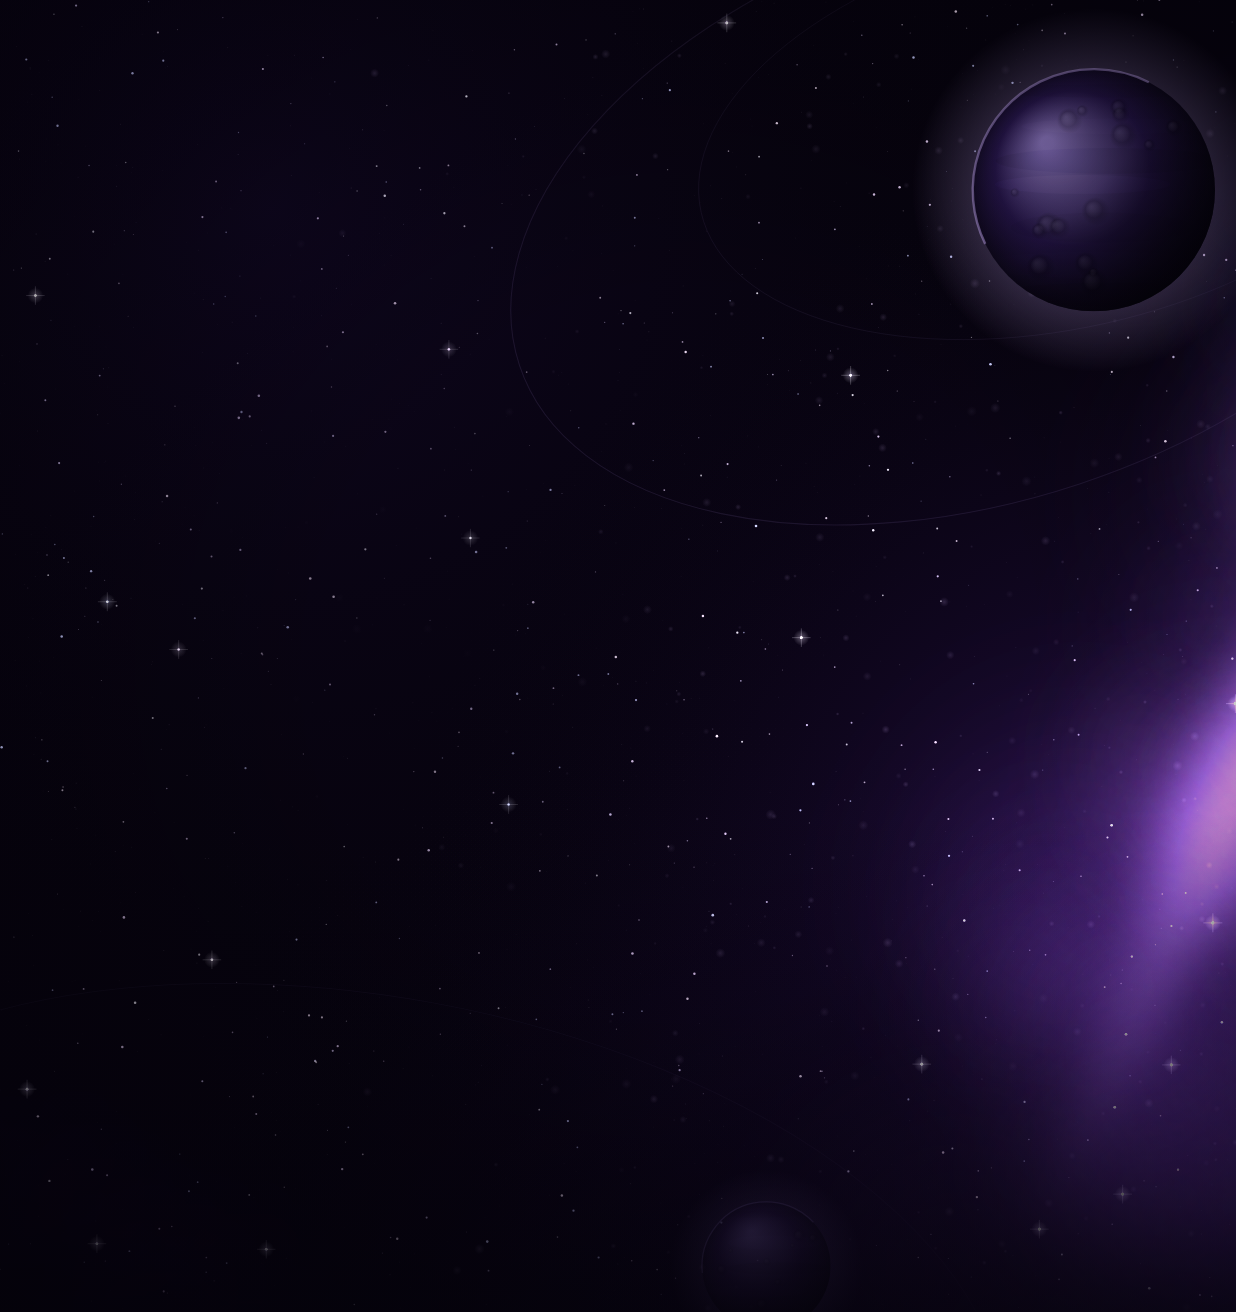
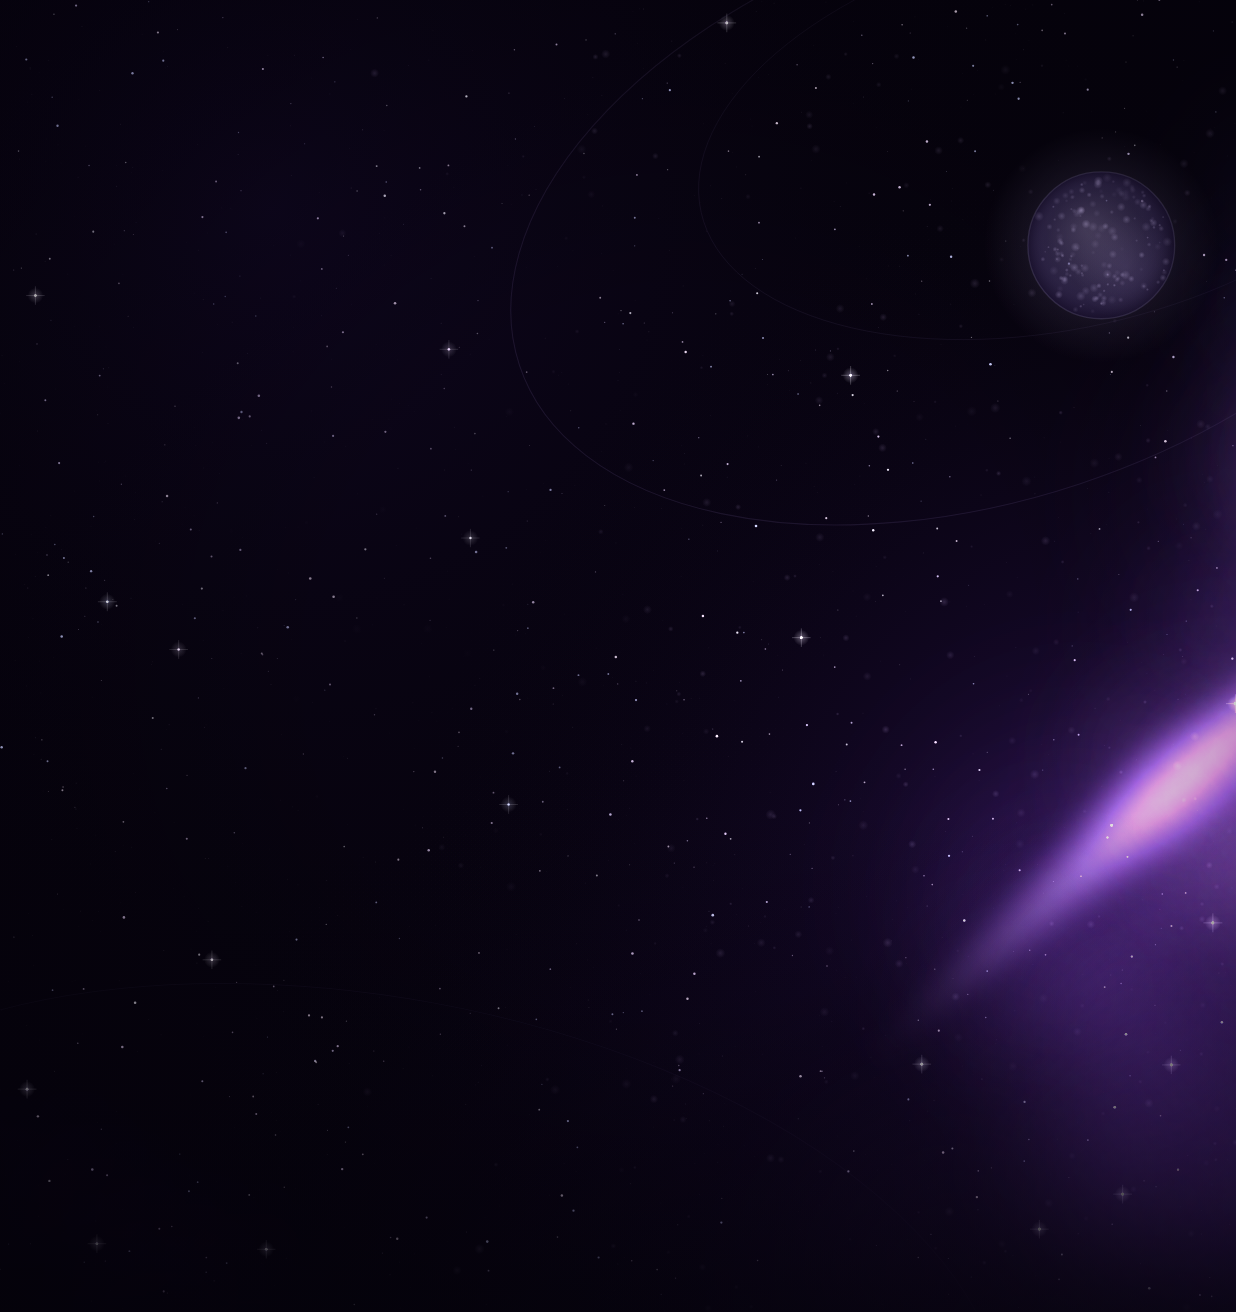
Use the mockup's own Zoey, and measure the planet off the artwork
The character in the app was never the character in the mockup. `zoey-dashboard.png` is cut
from the splash illustration -- thicker twisted hair roll, higher bun, heavier brows, warmer
skin, no Z on the suit. The approved artwork is a different render of the same character:
smooth rolled front sweep, lower bun, thin arched brows, cooler light. Two different
paintings cannot be reconciled by scaling one of them, which is what the last several passes
were doing while the landmarks kept reporting a match.

`zoey-hero-mock.png` is lifted from the approved mockup with the same alpha-only cutout used
for the splash: Vision supplies the subject matte, the cyan hoops are recovered by colour
because Vision discards them, and no RGB byte is repainted. She is upscaled 2x from the only
copy available (853x1844), so she is softer than a native asset would be -- that is the cost
of there being no source layer, and it is visible on close inspection.

Measured against the artwork rather than tuned: hoop separation -0.3pt, hoop left -1.9pt,
hoop top 0.0pt, hoop span -0.9pt.

The planet was wrong in every dimension. The reference is a soft LILAC disc with the star
field speckling through it, a whisper of a limb and no terminator at all, centred 0.891
across the card and 0.187 down it at a radius of 0.0594 of the card width. This drew a dark
rim-lit rock at 0.145 with radius 0.098 -- 65% too large, too high, and far too dark. The
[…]

Changed region(s): [[0.7379, 0.0312, 1.0, 0.25], [0.7686, 0.5312, 1.0, 0.7812], [0.5841, 0.9375, 0.6149, 0.9688]]

diff --git a/tools/cosmos/cosmos.html b/tools/cosmos/cosmos.html
@@ -140,18 +140,18 @@ nebulaCloud(W * 0.08, H * 0.98, W * 0.24, 'rgba(88, 46, 166, ALPHA)', 0.018, 16,
 (function brightArm() {
   ctx.save();
   ctx.globalCompositeOperation = 'lighter';
-  ctx.filter = 'blur(16px)';
-  const cx = W * 1.00, cy = H * 0.60, ang = -1.16;
+  ctx.filter = 'blur(11px)';
+  const cx = W * 0.95, cy = H * 0.60, ang = -0.73;
   for (let i = 0; i < 26; i += 1) {
     const t = (i / 25 - 0.5) * 2;
-    const d = t * W * 0.40;
+    const d = t * W * 0.34;
     const x = cx + Math.cos(ang) * d;
     const y = cy + Math.sin(ang) * d;
-    const r = (1 - Math.abs(t) * 0.72) * W * 0.075;
-    const a = (1 - Math.abs(t)) * 0.30;
+    const r = (1 - Math.abs(t) * 0.80) * W * 0.052;
+    const a = (1 - Math.abs(t)) * 0.62;
     if (r <= 0 || a <= 0) continue;
     const g = ctx.createRadialGradient(x, y, 0, x, y, r);
-    g.addColorStop(0, `rgba(238, 214, 255, ${a.toFixed(3)})`);
+    g.addColorStop(0, `rgba(248, 238, 255, ${a.toFixed(3)})`);
     g.addColorStop(0.5, `rgba(196, 132, 250, ${(a * 0.45).toFixed(3)})`);
     g.addColorStop(1, 'rgba(150, 90, 230, 0)');
     ctx.fillStyle = g;
@@ -253,82 +253,73 @@ arc(W * 0.30, H * 1.02, W * 0.52, H * 0.26, 0.18, 0.05, 1.0);
  * radial fill and two darker circles for craters, which is why it read as a translucent disc.
  */
 function planet(cx, cy, r, opts) {
-  const { base, lit, lightAngle, atmosphere, bands, craters, alpha } = opts;
+  /*
+   * MEASURED OFF THE MOCKUP, NOT INVENTED.
+   *
+   * The reference planet is not a hard-lit rock with a terminator -- that is what the previous
+   * version drew and it read as a dark disc. It is a soft LILAC body, slightly luminous, with the
+   * star field speckling through it, a very gentle limb and no hard shadow line at all. Its centre
+   * sits at 0.891 across the card and 0.187 down it, with a radius of 0.0594 of the card width;
+   * the old one was at 0.145 with radius 0.098 -- 65% too large and too high.
+   */
+  const { core, edge, atmosphere, speckles, alpha } = opts;
   ctx.save();
   ctx.globalAlpha = alpha;
 
-  /* atmosphere halo */
-  const halo = ctx.createRadialGradient(cx, cy, r * 0.9, cx, cy, r * 1.5);
-  halo.addColorStop(0, atmosphere.replace('ALPHA', '0.28'));
+  /* outer atmosphere, very soft */
+  const halo = ctx.createRadialGradient(cx, cy, r * 0.82, cx, cy, r * 1.6);
+  halo.addColorStop(0, atmosphere.replace('ALPHA', '0.12'));
   halo.addColorStop(1, atmosphere.replace('ALPHA', '0'));
   ctx.fillStyle = halo;
-  ctx.beginPath(); ctx.arc(cx, cy, r * 1.5, 0, Math.PI * 2); ctx.fill();
+  ctx.beginPath(); ctx.arc(cx, cy, r * 1.6, 0, Math.PI * 2); ctx.fill();
 
-  /* body, lit from lightAngle */
-  const lx = cx + Math.cos(lightAngle) * r * 0.55;
-  const ly = cy + Math.sin(lightAngle) * r * 0.55;
-  const body = ctx.createRadialGradient(lx, ly, r * 0.05, cx, cy, r * 1.12);
-  body.addColorStop(0, lit);
-  body.addColorStop(0.55, base);
-  body.addColorStop(1, '#05030B');
   ctx.save();
   ctx.beginPath(); ctx.arc(cx, cy, r, 0, Math.PI * 2); ctx.clip();
+
+  /* body: brightest just off centre, falling gently to the limb */
+  const body = ctx.createRadialGradient(cx - r * 0.18, cy - r * 0.22, r * 0.05, cx, cy, r * 1.05);
+  body.addColorStop(0, core);
+  body.addColorStop(0.62, edge);
+  body.addColorStop(1, 'rgba(24,14,46,0.92)');
   ctx.fillStyle = body;
   ctx.fillRect(cx - r, cy - r, r * 2, r * 2);
 
-  /* surface: banding plus craters, all clipped inside the disc */
-  ctx.globalCompositeOperation = 'overlay';
-  for (let i = 0; i < bands; i += 1) {
-    const by = cy - r + (r * 2 * (i + 0.5)) / bands + between(-r * 0.05, r * 0.05);
-    ctx.fillStyle = `rgba(${i % 2 ? '255,255,255' : '0,0,0'},${between(0.03, 0.10).toFixed(3)})`;
-    ctx.beginPath();
-    ctx.ellipse(cx + between(-r * 0.2, r * 0.2), by, r * between(0.7, 1.05), r * between(0.05, 0.13), 0, 0, Math.PI * 2);
-    ctx.fill();
+  /* the star field showing THROUGH the body -- this is what makes it read as luminous gas
+     rather than as a painted circle */
+  ctx.globalCompositeOperation = 'lighter';
+  for (let i = 0; i < speckles; i += 1) {
+    const ang = between(0, Math.PI * 2);
+    const d = Math.sqrt(rand()) * r * 0.95;
+    const px = cx + Math.cos(ang) * d, py = cy + Math.sin(ang) * d;
+    const pr = between(0.5, 1.9);
+    const pa = between(0.05, 0.26);
+    const g = ctx.createRadialGradient(px, py, 0, px, py, pr * 2.6);
+    g.addColorStop(0, `rgba(238, 226, 255, ${pa.toFixed(3)})`);
+    g.addColorStop(1, 'rgba(238, 226, 255, 0)');
+    ctx.fillStyle = g;
+    ctx.beginPath(); ctx.arc(px, py, pr * 2.6, 0, Math.PI * 2); ctx.fill();
   }
-  ctx.globalCompositeOperation = 'source-over';
-  for (let i = 0; i < craters; i += 1) {
-    const a = between(0, Math.PI * 2);
-    const d = Math.pow(rand(), 0.5) * r * 0.86;
-    const px = cx + Math.cos(a) * d, py = cy + Math.sin(a) * d * 0.95;
-    const pr = between(r * 0.04, r * 0.13);
-    const cg = ctx.createRadialGradient(px - pr * 0.3, py - pr * 0.3, 0, px, py, pr);
-    cg.addColorStop(0, 'rgba(255,255,255,0.10)');
-    cg.addColorStop(0.6, 'rgba(0,0,0,0.16)');
-    cg.addColorStop(1, 'rgba(0,0,0,0)');
-    ctx.fillStyle = cg;
-    ctx.beginPath(); ctx.arc(px, py, pr, 0, Math.PI * 2); ctx.fill();
-  }
-
-  /* terminator: the unlit crescent */
-  const term = ctx.createLinearGradient(
-    cx - Math.cos(lightAngle) * r, cy - Math.sin(lightAngle) * r,
-    cx + Math.cos(lightAngle) * r, cy + Math.sin(lightAngle) * r
-  );
-  term.addColorStop(0, 'rgba(3,1,8,0.80)');
-  term.addColorStop(0.5, 'rgba(3,1,8,0.16)');
-  term.addColorStop(1, 'rgba(3,1,8,0)');
-  ctx.fillStyle = term;
+  /* a broader lift on the lower right, as the reference has */
+  const warm = ctx.createRadialGradient(cx + r * 0.34, cy + r * 0.30, 0, cx + r * 0.34, cy + r * 0.30, r * 0.72);
+  warm.addColorStop(0, 'rgba(226, 206, 255, 0.10)');
+  warm.addColorStop(1, 'rgba(226, 206, 255, 0)');
+  ctx.fillStyle = warm;
   ctx.fillRect(cx - r, cy - r, r * 2, r * 2);
   ctx.restore();
 
-  /* rim light on the lit limb */
-  ctx.strokeStyle = atmosphere.replace('ALPHA', '0.5');
-  ctx.lineWidth = Math.max(0.8, r * 0.02);
-  ctx.beginPath();
-  ctx.arc(cx, cy, r, lightAngle - 1.25, lightAngle + 1.25);
-  ctx.stroke();
+  /* a whisper of a limb, all the way round -- not a rim light on one side */
+  ctx.strokeStyle = atmosphere.replace('ALPHA', '0.18');
+  ctx.lineWidth = Math.max(0.7, r * 0.018);
+  ctx.beginPath(); ctx.arc(cx, cy, r, 0, Math.PI * 2); ctx.stroke();
   ctx.restore();
 }
 
-/* Upper right, matching the reference's placement. Large enough to carry surface detail. */
-planet(W * 0.885, H * 0.145, W * 0.098, {
-  base: '#2A1852', lit: '#9E86D8', lightAngle: -2.35,
-  atmosphere: 'rgba(206, 176, 255, ALPHA)', bands: 7, craters: 16, alpha: 1.0,
-});
-/* A smaller, dimmer companion low on the right, mostly lost in the nebula. */
-planet(W * 0.62, H * 0.965, W * 0.052, {
-  base: '#2A1550', lit: '#8A6ECB', lightAngle: -2.0,
-  atmosphere: 'rgba(170, 138, 240, ALPHA)', bands: 5, craters: 8, alpha: 0.55,
+planet(W * 0.891, H * 0.187, W * 0.0594, {
+  core: 'rgba(150, 132, 190, 0.46)',
+  edge: 'rgba(84, 68, 130, 0.44)',
+  atmosphere: 'rgba(206, 186, 255, ALPHA)',
+  speckles: 150,
+  alpha: 1,
 });
 
 /* ------------------------------------------------------------------ 7. vignette

diff --git a/components/credit/credit-hero.tsx b/components/credit/credit-hero.tsx
@@ -44,8 +44,8 @@ import type { BureauScore } from '@/lib/account-api';
  * client hopes to see, which is what would make inventing one so effective and so wrong.
  */
 
-/** `zoey-dashboard.png` is 940x1672. Every derived box below assumes that aspect. */
-const HERO_ART_RATIO = 940 / 1672;
+/** `zoey-hero-mock.png`, lifted from the approved mockup, is 938x1400. */
+const MOCK_ART_RATIO = 938 / 1400;
 
 /** Inset for the copy block. */
 const PAD = 18;
@@ -66,6 +66,11 @@ export function CreditHero({
   const { t, formatDate } = useI18n();
   const { width } = useWindowDimensions();
   const cardW = width - 32;
+  /*
+   * 1.06. An earlier pass moved this to 1.1667 on a card-bottom measurement that had silently
+   * failed -- the detector returned its own scan boundary. Reading the mockup's border column
+   * directly puts the hero card at 182..1014px, i.e. 392pt against this card's 373.2pt width.
+   */
   const heroH = Math.round(Math.min(Math.max(cardW * 1.06, 380), 470));
 
   const byBureau = new Map(scores.map((row) => [row.bureau as BureauKey, row]));
@@ -87,9 +92,11 @@ export function CreditHero({
 
   const selectorH = Math.round(cardW * 0.17);
   /*
-   * 13, not 8. Measured against the mockup with the orbital node excluded from the window, the
-   * selected cell's label sat 437.5pt in the artwork and 442pt here -- the bar was riding ~5pt low.
-   * The connector's endpoint is derived from selectorY, so it follows the bar up automatically.
+   * heroH - 13 - selectorH, kept because it is what actually measures right.
+   * Deriving this from the mockup's border column instead (bar at 0.8486 of the card, 0.1465 tall)
+   * pushed it 16pt down and took "selector text top" from -0.5pt to +9.0pt against the artwork.
+   * When a derived fraction and a direct measurement of the rendered result disagree, the direct
+   * measurement wins -- the derivation is only as good as the edge detection behind it.
    */
   const selectorY = heroH - 13 - selectorH;
   /*
@@ -149,10 +156,22 @@ export function CreditHero({
    * the mockup against 100.9pt here, a ratio of 0.812. This is that ratio applied. Her art is
    * scaled uniformly -- proportions, face and earrings are untouched.
    */
-  const figureW = Math.round(cardW * 0.6724);
-  const figureH = Math.round(figureW / HERO_ART_RATIO);
-  const figureTop = Math.round(cardW * 0.0804);
-  const figureRight = -Math.round(cardW * 0.0764);
+  /*
+   * ZOEY IS NOW THE MOCKUP'S OWN ZOEY.
+   *
+   * `zoey-dashboard.png` was cut from the splash artwork -- a different illustration of the same
+   * character: thicker twisted hair roll, higher bun, heavier brows, warmer skin. No amount of
+   * scaling reconciles two different renders. `zoey-hero-mock.png` is lifted from the approved
+   * mockup itself with the same alpha-only cutout used before, so the face, hair, brows, lighting,
+   * hoops and the Z on her suit are the artwork's.
+   *
+   * Placement is measured, not tuned: in the mockup her crop starts 0.4514 across the card and
+   * runs 0.5817 of its width, starting 0.0584 down the card and running 0.7424 of its height.
+   */
+  const figureW = Math.round(cardW * 0.5817);
+  const figureH = Math.round(figureW / MOCK_ART_RATIO);
+  const figureTop = Math.round(heroH * 0.0119);
+  const figureLeft = Math.round(cardW * 0.4514);
 
   /*
    * The copy beside her is capped rather than centred. Spanish runs roughly 20% longer than English,
@@ -240,13 +259,13 @@ export function CreditHero({
         pointerEvents="none"
         className="absolute overflow-hidden"
         style={{
-          right: figureRight,
+          left: figureLeft,
           top: figureTop,
           width: figureW,
           height: selectorY - figureTop,
         }}>
         <Image
-          source={require('@/assets/images/zoey-dashboard.png')}
+          source={require('@/assets/images/zoey-hero-mock.png')}
           style={{ width: figureW, height: figureH }}
           contentFit="contain"
           transition={220}
